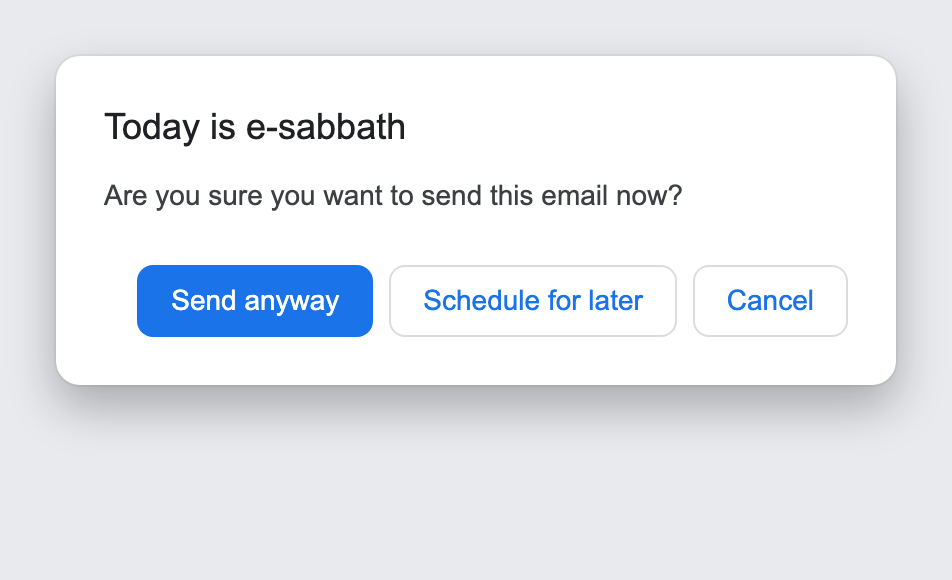
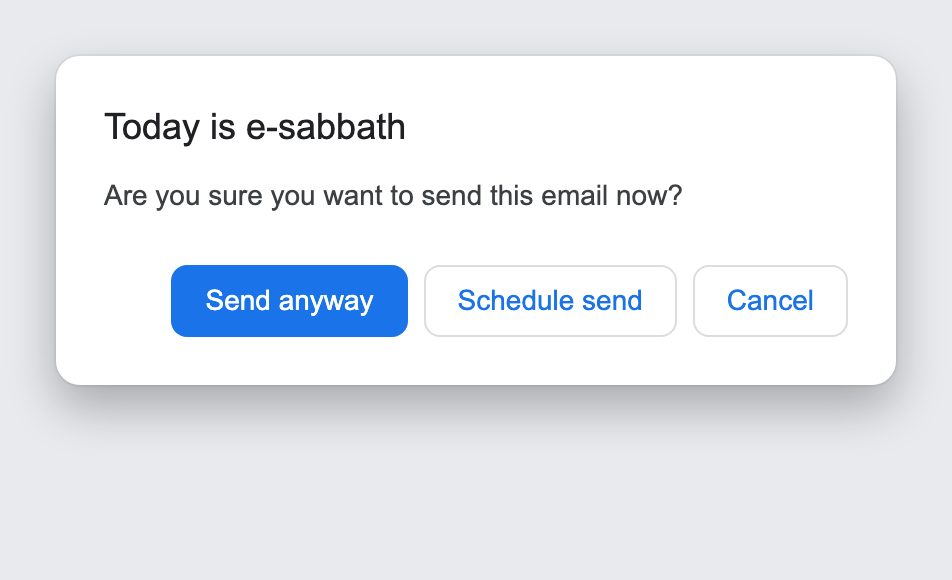
Open Gmail's date & time picker instead of an in-modal picker
Replace the custom datetime-local picker (and its brittle auto-fill
of Gmail's custom date/time fields) with a direct hand-off: the
"Schedule send" button opens Gmail's native Schedule send dialog and
surfaces its "Pick date & time" picker, letting the user choose the
time in Gmail itself.

- Drop the in-modal picker, two-step reveal, and value typing.
- Remove now-unused helpers and SCHEDULE_HOUR/MINUTE config.
- Refresh screenshot, README, and manifest copy.

Changed region(s): [[0.1218, 0.4345, 0.6702, 0.5897]]

diff --git a/src/content.js b/src/content.js
@@ -7,7 +7,7 @@
  *   - Intercepts the Gmail "Send" action (button click and Ctrl/Cmd+Enter).
  *   - Shows a modal offering three choices:
  *       1. Send anyway
- *       2. Schedule for tomorrow (drives Gmail's native "Schedule send")
+ *       2. Schedule send (opens Gmail's native date & time picker)
  *       3. Cancel
  */
 (function () {
@@ -17,9 +17,6 @@
 
   // 0 = Sunday, 1 = Monday, ... 6 = Saturday.
   const SABBATH_DAY = 1; // Monday
-  // When scheduling for "the next day", send at this local time.
-  const SCHEDULE_HOUR = 8; // 8 AM
-  const SCHEDULE_MINUTE = 0;
 
   // ----- Small utilities -----------------------------------------------------
 
@@ -93,18 +90,6 @@
   }
 
   // ----- "Schedule send" automation -----------------------------------------
-
-  function setNativeInputValue(input, value) {
-    const proto = Object.getPrototypeOf(input);
-    const desc = Object.getOwnPropertyDescriptor(proto, "value");
-    if (desc && desc.set) {
-      desc.set.call(input, value);
-    } else {
-      input.value = value;
-    }
-    input.dispatchEvent(new Event("input", { bubbles: true }));
-    input.dispatchEvent(new Event("change", { bubbles: true }));
-  }
 
   function findMoreSendOptions(sendBtn) {
     // The dropdown arrow is normally a sibling of the Send button.
@@ -182,34 +167,15 @@
     return null;
   }
 
-  function nextDayAtScheduleTime() {
-    const d = new Date();
-    d.setDate(d.getDate() + 1);
-    d.setHours(SCHEDULE_HOUR, SCHEDULE_MINUTE, 0, 0);
-    return d;
-  }
-
-  /** Does the target fall on tomorrow at the default schedule time? */
-  function isDefaultTomorrowMorning(target) {
-    const d = nextDayAtScheduleTime();
-    return (
-      target.getFullYear() === d.getFullYear() &&
-      target.getMonth() === d.getMonth() &&
-      target.getDate() === d.getDate() &&
-      target.getHours() === d.getHours() &&
-      target.getMinutes() === d.getMinutes()
-    );
-  }
-
   /**
-   * Drive Gmail's native "Schedule send" dialog to schedule for a given time.
-   * This depends on Gmail's DOM and is best-effort: if any step fails we leave
-   * the scheduling dialog open so the user can finish manually.
+   * Open Gmail's native scheduler and surface its custom date & time picker,
+   * then hand control to the user. We deliberately do NOT fill or confirm any
+   * fields — the user chooses the date and time in Gmail's own dialog. This
+   * depends on Gmail's DOM and is best-effort: if a step can't be found we
+   * stop and leave whatever opened in place.
    */
-  async function scheduleAt(sendBtn, target) {
-    // The compose window is itself a [role="dialog"]. Capture it so we never
-    // mistake it for the schedule picker and type the date/time into its
-    // To/Subject fields.
+  async function openGmailSchedulePicker(sendBtn) {
+    // The compose window is itself a [role="dialog"]; never treat it as a menu.
     const composeDialog = sendBtn.closest('[role="dialog"]') || null;
 
     const arrow = findMoreSendOptions(sendBtn);
@@ -254,118 +220,27 @@
       { label: "new picker dialog" }
     );
 
-    // Preferred path: when the user kept the default (tomorrow at 8:00 AM),
-    // click Gmail's built-in "Tomorrow morning" preset. This avoids typing into
-    // date/time fields entirely — the source of the bug where text leaked into
-    // the compose Subject. The picker content can load a beat after the dialog
-    // appears, so poll for it.
-    if (isDefaultTomorrowMorning(target) && SCHEDULE_HOUR === 8 && SCHEDULE_MINUTE === 0) {
-      try {
-        const preset = await waitFor(
-          () =>
-            findByText(
-              '[role="menuitem"], [role="button"], [role="option"], li',
-              "tomorrow morning",
-              picker
-            ),
-          { timeout: 2500, label: "tomorrow-morning preset" }
-        );
-        realClick(preset);
-        return;
-      } catch (_) {
-        console.warn(
-          "[Sabbath Reminder] no 'tomorrow morning' preset; picker text:",
-          normalizedText(picker).slice(0, 200)
-        );
-      }
-    }
-
-    // Fallback: open Gmail's custom date & time picker.
-    const pick = findByText(
-      '[role="button"], button, span',
-      "pick date & time",
-      picker
+    // Surface Gmail's custom date & time picker so the user lands directly on
+    // it. The picker content can load a beat after the dialog appears, so poll.
+    const pick = await waitFor(
+      () =>
+        findByText('[role="button"], button, span', "pick date & time", picker),
+      { timeout: 2500, label: "pick-date-&-time entry" }
     );
-    if (pick) realClick(pick);
-
-    // Find the custom-picker dialog (again, never the compose window) by
-    // requiring it to contain BOTH an aria-labelled date and time input. If we
-    // can't positively identify them, abort and let the user finish manually
-    // rather than risk editing the email.
-    const customDialog = await waitFor(
-      () => {
-        for (const dlg of document.querySelectorAll('[role="dialog"]')) {
-          if (dlg === composeDialog) continue;
-          const hasDate = dlg.querySelector('input[aria-label*="ate" i]');
-          const hasTime = dlg.querySelector('input[aria-label*="ime" i]');
-          if (hasDate && hasTime) return dlg;
-        }
-        return null;
-      },
-      { label: "custom date/time dialog" }
-    );
-
-    const dateInput = customDialog.querySelector('input[aria-label*="ate" i]');
-    const timeInput = customDialog.querySelector('input[aria-label*="ime" i]');
-    if (!dateInput || !timeInput) {
-      throw new Error("Could not identify the date/time fields");
-    }
-
-    const dateStr = target.toLocaleDateString(undefined, {
-      month: "short",
-      day: "numeric",
-      year: "numeric",
-    });
-    const timeStr = target.toLocaleTimeString(undefined, {
-      hour: "numeric",
-      minute: "2-digit",
-    });
-
-    setNativeInputValue(dateInput, dateStr);
-    setNativeInputValue(timeInput, timeStr);
-    dateInput.dispatchEvent(new Event("blur", { bubbles: true }));
-    timeInput.dispatchEvent(new Event("blur", { bubbles: true }));
-
-    const confirm = await waitFor(
-      () => {
-        for (const el of customDialog.querySelectorAll('[role="button"], button')) {
-          if (normalizedText(el).includes("schedule send")) return el;
-        }
-        return null;
-      },
-      { label: "confirm schedule-send button" }
-    );
-    realClick(confirm);
+    realClick(pick);
   }
 
   // ----- Modal ---------------------------------------------------------------
 
   let modalOpen = false;
 
-  /** Format a Date as a `datetime-local` input value (local time, minute res). */
-  function toLocalInputValue(d) {
-    const pad = (n) => String(n).padStart(2, "0");
-    return (
-      d.getFullYear() +
-      "-" +
-      pad(d.getMonth() + 1) +
-      "-" +
-      pad(d.getDate()) +
-      "T" +
-      pad(d.getHours()) +
-      ":" +
-      pad(d.getMinutes())
-    );
-  }
-
   /**
-   * Show the e-sabbath modal. Resolves with { choice, when }:
-   *   choice: "send" | "schedule" | "cancel"
-   *   when:   a Date for "schedule", else null.
+   * Show the e-sabbath modal. Resolves with the chosen action:
+   *   "send" | "schedule" | "cancel"
    */
   function showSabbathModal() {
     return new Promise((resolve) => {
-      if (modalOpen) return resolve({ choice: "cancel", when: null });
+      if (modalOpen) return resolve("cancel");
       modalOpen = true;
 
       const overlay = document.createElement("div");
@@ -377,19 +252,12 @@
       box.setAttribute("aria-modal", "true");
       box.setAttribute("aria-labelledby", "sr-title");
 
-      const now = new Date();
       box.innerHTML = [
         '<h2 id="sr-title" class="sr-title">Today is e-sabbath</h2>',
         '<p class="sr-body">Are you sure you want to send this email now?</p>',
-        '<label class="sr-field sr-hidden">',
-        '  <span class="sr-field-label">Schedule send for</span>',
-        '  <input type="datetime-local" class="sr-datetime"',
-        '    value="' + toLocalInputValue(nextDayAtScheduleTime()) + '"',
-        '    min="' + toLocalInputValue(now) + '">',
-        "</label>",
         '<div class="sr-actions">',
         '  <button type="button" class="sr-btn sr-btn-primary" data-choice="send">Send anyway</button>',
-        '  <button type="button" class="sr-btn sr-btn-secondary" data-choice="schedule">Schedule for later</button>',
+        '  <button type="button" class="sr-btn sr-btn-secondary" data-choice="schedule">Schedule send</button>',
         '  <button type="button" class="sr-btn sr-btn-secondary" data-choice="cancel">Cancel</button>',
         "</div>",
       ].join("");
@@ -397,22 +265,11 @@
       overlay.appendChild(box);
       document.body.appendChild(overlay);
 
-      const field = box.querySelector(".sr-field");
-      const dtInput = box.querySelector(".sr-datetime");
-      const scheduleBtn = box.querySelector('[data-choice="schedule"]');
-      const sendBtn = box.querySelector('[data-choice="send"]');
-      const bodyText = box.querySelector(".sr-body");
-
       function cleanup(choice) {
         document.removeEventListener("keydown", onKey, true);
-        let when = null;
-        if (choice === "schedule" && dtInput && dtInput.value) {
-          const parsed = new Date(dtInput.value);
-          if (!isNaN(parsed.getTime())) when = parsed;
-        }
         overlay.remove();
         modalOpen = false;
-        resolve({ choice, when });
+        resolve(choice);
       }
 
       function onKey(e) {
@@ -426,17 +283,7 @@
       box.addEventListener("click", (e) => {
         const target = e.target.closest("[data-choice]");
         if (!target) return;
-        const choice = target.getAttribute("data-choice");
-        // First "Schedule send" click reveals the picker; the second confirms.
-        if (choice === "schedule" && field.classList.contains("sr-hidden")) {
-          field.classList.remove("sr-hidden");
-          scheduleBtn.textContent = "Schedule send";
-          if (sendBtn) sendBtn.remove();
-          if (bodyText) bodyText.remove();
-          if (dtInput) dtInput.focus();
-          return;
-        }
-        cleanup(choice);
+        cleanup(target.getAttribute("data-choice"));
       });
       overlay.addEventListener("click", (e) => {
         if (e.target === overlay) cleanup("cancel");
@@ -467,7 +314,7 @@
   let bypassNextSend = false;
 
   async function handleSendIntercept(sendBtn) {
-    const { choice, when } = await showSabbathModal();
+    const choice = await showSabbathModal();
 
     if (choice === "send") {
       bypassNextSend = true;
@@ -476,21 +323,14 @@
     }
 
     if (choice === "schedule") {
-      const target = when || nextDayAtScheduleTime();
       try {
-        await scheduleAt(sendBtn, target);
-        const label = target.toLocaleString(undefined, {
-          weekday: "short",
-          month: "short",
-          day: "numeric",
-          hour: "numeric",
-          minute: "2-digit",
-        });
-        showToast("Email scheduled to send " + label + ".");
+        await openGmailSchedulePicker(sendBtn);
+        showToast("Pick a date & time in Gmail's scheduler.");
       } catch (err) {
-        console.warn("[Sabbath Reminder] Auto-scheduling failed:", err);
+        console.warn("[Sabbath Reminder] Couldn't open scheduler:", err);
         showToast(
-          "Couldn't auto-schedule. Please pick a time in the dialog that opened."
+          "Couldn't open Gmail's scheduler. Use the Send dropdown's " +
+            "“Schedule send” option."
         );
       }
       return;

diff --git a/src/modal.css b/src/modal.css
@@ -37,41 +37,6 @@
   color: #3c4043;
 }
 
-.sr-field {
-  display: block;
-  margin: 0 0 24px;
-}
-
-.sr-field.sr-hidden {
-  display: none;
-}
-
-.sr-field-label {
-  display: block;
-  margin: 0 0 6px;
-  font-size: 13px;
-  font-weight: 500;
-  color: #3c4043;
-}
-
-.sr-datetime {
-  width: 100%;
-  box-sizing: border-box;
-  font-family: inherit;
-  font-size: 14px;
-  color: #202124;
-  padding: 10px 12px;
-  border: 1px solid #dadce0;
-  border-radius: 8px;
-  background: #fff;
-}
-
-.sr-datetime:focus {
-  outline: none;
-  border-color: #1a73e8;
-  box-shadow: 0 0 0 1px #1a73e8;
-}
-
 .sr-actions {
   display: flex;
   flex-wrap: nowrap;

diff --git a/README.md b/README.md
@@ -13,8 +13,8 @@ in Gmail on a **Monday** (the e-sabbath), sending is paused and a dialog appears
 You can choose:
 
 - **Send anyway** — sends the email immediately.
-- **Schedule send** — pick any date and time (defaults to tomorrow at 8:00 AM
-  local), then uses Gmail's built-in *Schedule send* to deliver it then.
+- **Schedule send** — opens Gmail's built-in *Schedule send* date & time picker
+  so you can choose when to send.
 - **Cancel** — does nothing; the email stays in the compose window.
 
 On any other day the extension stays completely out of the way. It applies to
@@ -57,11 +57,9 @@ After pulling new changes (`git pull`), go to `chrome://extensions`, click the
 
 The defaults live at the top of [`src/content.js`](src/content.js):
 
-| Constant          | Default          | Meaning                                  |
-| ----------------- | ---------------- | ---------------------------------------- |
-| `SABBATH_DAY`     | `1` (Monday)     | Day of week for the e-sabbath (0 = Sun). |
-| `SCHEDULE_HOUR`   | `8`              | Default hour pre-filled in the picker.   |
-| `SCHEDULE_MINUTE` | `0`              | Default minute pre-filled in the picker. |
+| Constant      | Default      | Meaning                                  |
+| ------------- | ------------ | ---------------------------------------- |
+| `SABBATH_DAY` | `1` (Monday) | Day of week for the e-sabbath (0 = Sun). |
 
 ## Files
 
@@ -74,11 +72,9 @@ icons/             # extension icons
 
 ## Notes & limitations
 
-- The **Schedule send** option drives Gmail's native *Schedule send* dialog
-  through the DOM. Keeping the default (tomorrow at 8:00 AM) clicks Gmail's
-  *Tomorrow morning* preset; any other time is typed into Gmail's custom date &
-  time picker. Gmail's markup changes frequently; if auto-scheduling fails, the
-  extension leaves the scheduling dialog open and shows a toast so you can pick a
-  time manually.
+- The **Schedule send** option opens Gmail's native *Schedule send* dialog and
+  surfaces its date & time picker through the DOM; you choose the time there.
+  Gmail's markup changes frequently — if the picker can't be opened, use the
+  Send button's own dropdown ▸ *Schedule send*.
 - The reminder fires for **every** Gmail account in the browser. Install it only
   where the e-sabbath reminder is wanted.
